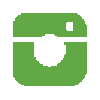
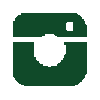
Proseries

diff --git a/ProSeries/index.html b/ProSeries/index.html
@@ -104,21 +104,10 @@
                             <table class="one" width="100%">
                                 <tr>
                                     <td style="padding: 0 62px 10px; text-align: center; align-items: center; border: 0;">
-                                        <a href="https://www.induvet.com/"> <img src="https://i.ibb.co/BwQrGvj/insight.png" alt="INDUVET-BRAVECTO" width="180" title="logo"> </a>
+                                        <a href="https://www.realva.com/"> <img src="img/proseries.png" alt="INDUVET-BRAVECTO" width="180" title="logo"> </a>
                                     </td>
                                 </tr>
                             </table>
-                            <table class="none" width="100%">
-                                <tr>
-                                    <td style="padding: 10px 68px; text-align: center;">
-                                        <a href="https://es-la.facebook.com/InduvetHonduras/"> <img src="https://i.ibb.co/5GjTVcg/circle-facebook.png" alt="" width="40" > </a>
-                                        <a href="https://www.instagram.com/induvethn/?hl=es-la"> <img src="https://i.ibb.co/Xj64Bn9/circle-instagram.png" alt="" width="40" > </a>
-                                        <a href="https://www.linkedin.com/company/induvethn/?originalSubdomain=hn"> <img src="https://i.ibb.co/cgc8kbW/circle-linkedin.png" alt="" width="40" > </a>
-                                        <a href="https://www.youtube.com/channel/UCcxc0HhrzeMMNRTW_C26hdA"> <img src="https://i.ibb.co/qy28GqV/circle-youtube.png" alt="" width="40" > </a>
-                                    </td>
-                                </tr>
-                            </table>
-
                         </td>
                     </tr>
                     
@@ -141,10 +130,10 @@
 
                         <tr>
                             <td style="@import url('https://fonts.googleapis.com/css2?family=Roboto&display=swap'); font-family: 'Roboto', sans-serif; text-align: center; padding: 15px;">
-                                <p style="font-size: 20px; font-weight: bold;"> Dale a tus mascotas <strong style="color: #00aced">BRAVECTO&copy;</strong></p>
-                                <p style="font-size: 18px; line-height:24px; padding: 5px 0 15px; font-weight: 400;">¿Sabía que sólo el 5% de las pulgas están sobre su mascota y el otro 95% en su ambiente próximo en forma de huevos y larvas?
-                                    Proteja a su perrito y a su familia de pulgas y garrapatas con Bravecto. Elimina por 12 semanas estas peligrosas plagas incluyendo sus huevecillos. </p>
-                                <a style="text-decoration: none; bottom: 20px; right: 30px; border: none; outline: none; background-color: #00aced; color: white; padding: 12px 20px; border-radius: 50px;
+                                <p style="font-size: 20px; font-weight: bold;"> Descuentos <strong style="color: #9674F5">ProSeries&copy;</strong></p>
+                                <p style="font-size: 18px; line-height:24px; padding: 5px 0 15px; font-weight: 400;">Fabricado en Canadá, ProSeries le ofrece los más altos estándares de calidad en alimento para perro como sus diferentes formulaciones para cada tipo de mascota, la materia prima y sus empaques de larga duración.
+                                    Si usted quiere a su perro activo por mucho más tiempo, usted quiere la calidad de ProSeries. </p>
+                                <a style="text-decoration: none; bottom: 20px; right: 30px; border: none; outline: none; background-color: #9674F5; color: white; padding: 12px 20px; border-radius: 50px;
                                 font-size: 18px; font-weight: bold;" class="button" href="https://promosrealvainduvet.com/">Conoce Más</a>
                             </td>
                         </tr>
@@ -154,122 +143,8 @@
             </tr>
 
             <tr>
-                <td height="2" style="background-color: #00aced;"></td>
+                <td height="2" style="background-color: #225924;"></td>
             </tr>
-
-
-            <!-- 
-
-            <tr>
-                <td style="text-align: center;">
-                   <table width="100%">
-                        <tr>
-
-                            <td class="three-columns">
-                                
-                                <table class="column">
-
-                                    <tr>
-
-                                        <td class="padding">
-
-                                            <table class="content">
-
-                                                <tr>
-
-                                                    <td>
-                                                        <a href="#"> <img src="https://i.ibb.co/TMv1qGP/ecommerce.jpg" alt="" width="110px" style="max-width: 110px; border-radius: 55px;"> </a>
-                                                    </td>
-
-                                                </tr>
-                                                <tr>
-
-                                                    <td style="padding: 10px;">
-                                                        <p style="font-weight: bold; font-size: 17px;">
-                                                            Protección
-                                                        </p>
-                                                        <p>Sólo 4 Bravectos al año protegen a su perro de las pulgas y garrapatas.  Compare, Bravecto es más económico que otras marcas porque su efecto dura más.</p>
-                                                    </td>
-                                                </tr>
-                                            </table>
-
-                                        </td>
-
-                                    </tr>
-
-                                </table>
-                                <table class="column">
-
-                                    <tr>
-
-                                        <td class="padding">
-
-                                            <table class="content">
-
-                                                <tr>
-
-                                                    <td>
-                                                        <a href="#"> <img src="https://i.ibb.co/DQz8hhS/web-design.jpg" alt="" width="110px" style="max-width: 110px; border-radius: 55px;"> </a>
-                                                    </td>
-
-                                                </tr>
-                                                <tr>
-
-                                                    <td style="padding: 10px;">
-                                                        <p style="font-weight: bold; font-size: 17px;">
-                                                            Disponibilidad
-                                                        </p>
-                                                        <p>Adquiéralo en las mejores veterinarias del país o asesórese más en nuestras tiendas. Consulta a tu médico veterinario sobre los beneficios de utilizar Bravecto</p>
-                                                    </td>
-                                                </tr>
-                                            </table>
-
-                                        </td>
-
-                                    </tr>
-
-                                </table>
-                                <table class="column">
-
-                                    <tr>
-
-                                        <td class="padding">
-
-                                            <table class="content">
-
-                                                <tr>
-
-                                                    <td>
-                                                        <a href="#"> <img src="https://i.ibb.co/4NzM5xr/email-design.jpg" alt="" width="110px" style="max-width: 110px; border-radius: 55px;"> </a>
-                                                    </td>
-
-                                                </tr>
-                                                <tr>
-
-                                                    <td style="padding: 10px;">
-                                                        <p style="font-weight: bold; font-size: 17px;">
-                                                            Otros Beneficios
-                                                        </p>
-                                                        <p>Una garrapata que se haya alimentado de la sangre de un perro contaminado puede contaminar a su mascota con la peligrosa Erliquia, proteja a su perro y a su familia con Bravecto</p>
-                                                    </td>
-                                                </tr>
-                                            </table>
-
-                                        </td>
-
-                                    </tr>
-
-                                </table>
-
-                            </td>
-
-                        </tr>
-
-                    
-                   </table> 
-                </td>
-                -->
-            
             
             <tr>
                 <td style="background-color: #fff;">
@@ -277,16 +152,16 @@
 
                     <tr>
                         <td style="text-align: center; padding: 45px 20px; @import url('https://fonts.googleapis.com/css2?family=Roboto&display=swap'); font-family: 'Roboto', sans-serif; font-weight: 500;">
-                            <a href=""> <img src="https://i.ibb.co/DpZzvXk/insight-white.png" alt="" width="160"> </a>
-                            <p style="padding: 10px;">Industria Veterinaria S. de R.L.</p>
-                            <p style="padding: 10px;">TEGUCIGALPA: Edificio Alvarenga, Blvd. Morazán (contiguo paso desnivel Lomas del Guijarro) a la par de la Casa de las Medias y Farmacia Simán
-                                +(504) 2236-5531</p>
+                            <a href=""> <img src="img/realvalogo.png" alt="" width="160"> </a>
+                            <p style="padding: 10px;">Distribuidora Realva</p>
+                            <p style="padding: 10px;">TEGUCIGALPA: Edificio Alvarenga, Blvd. Morazán (contiguo paso desnivel Lomas del Guijarro) 
+                                al lado de la Casa de la Media y Farmacia Simán +504 2236-5531</p>
                             <p style="padding: 10px;">SAN PEDRO SULA: 5ta. Avenida Lempira (Los Leones), entre 10 y 11 Calle (contiguo a la ATIC)
-                               +(504) 2552-9466.</p>
-                            <a href="https://es-la.facebook.com/InduvetHonduras/"><img src="https://i.ibb.co/K21c16j/white-facebook.png" alt="" width="30" ></a>
-                            <a href="https://www.instagram.com/induvethn/?hl=es-la"><img src="https://i.ibb.co/tBHL4yP/white-instagram.png" alt="" width="30" ></a>
-                            <a href="https://www.linkedin.com/company/induvethn/?originalSubdomain=hn"><img src="https://i.ibb.co/hdX7rT0/white-linkedin.png" alt="" width="30" ></a>
-                            <a href="https://www.youtube.com/channel/UCcxc0HhrzeMMNRTW_C26hdA"><img src="https://i.ibb.co/zfSFs9B/white-youtube.png" alt="" width="30" ></a>
+                               +504 2552-9466.</p>
+                            <a href="https://es-la.facebook.com/RealvaHonduras/"><img src="img/white-facebook.png" alt="" width="30" ></a>
+                            <a href="https://www.instagram.com/realvahn/?hl=es-la"><img src="img/white-instagram.png" alt="" width="30" ></a>
+                            <a href="https://www.linkedin.com/company/induvethn/?originalSubdomain=hn"><img src="img/white-linkedin.png" alt="" width="30" ></a>
+                            <a href="https://www.youtube.com/channel/UCcxc0HhrzeMMNRTW_C26hdA"><img src="img/white-youtube.png" alt="" width="30" ></a>
                            
                         </td>
                     </tr>
